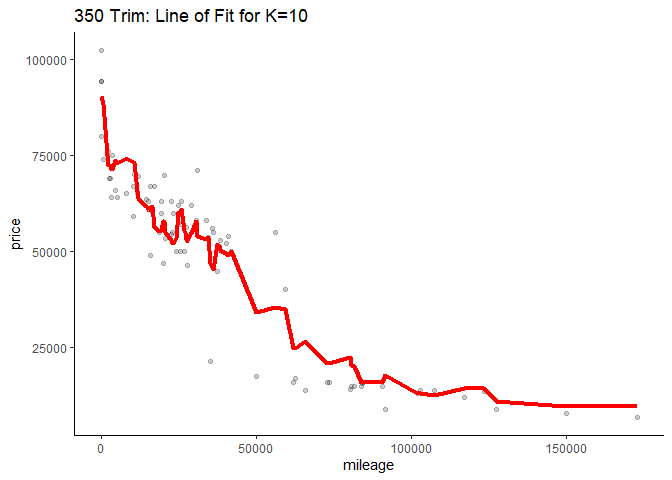
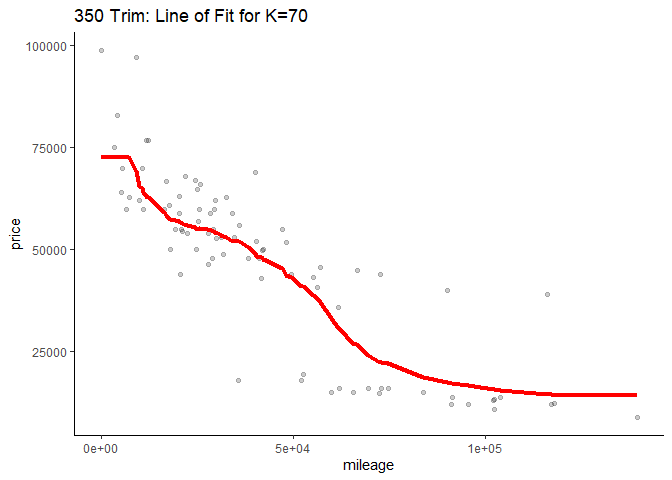
.

diff --git a/Harrison/HW1_P4.md b/Harrison/HW1_P4.md
@@ -2,12 +2,26 @@ Problem 4
 ---------
 
 In this problem, we want to find the optimal value of K in our KNN
-regressions for each trim. In the chart of RMSE versus K for each trim,
-there is a line for the RMSE of a linear benchmark, as well as a
-quadratic benchmark.
+regressions for each trim. In the chart of RMSE versus K for each trim
+there is an average RMSE mapped with one standard error bar. In each
+case, we use the “1SE” rule to determine our optimal K. That is we chose
+the largest K value that was within one standard error of the lowest
+average RMSE observed. Doing this with the 350 trims yields the
+following results.
 
-![](HW1_P4_files/figure-markdown_strict/unnamed-chunk-2-1.png)![](HW1_P4_files/figure-markdown_strict/unnamed-chunk-2-2.png)![](HW1_P4_files/figure-markdown_strict/unnamed-chunk-2-3.png)![](HW1_P4_files/figure-markdown_strict/unnamed-chunk-2-4.png)
+![](HW1_P4_files/figure-markdown_strict/unnamed-chunk-2-1.png)![](HW1_P4_files/figure-markdown_strict/unnamed-chunk-2-2.png)
 
 From the 350 Trim chart of RMSE versus K, we see that the RMSE bottoms
-out at 10, as such the line of fit against the test data is for that K
-value. Similarly we have a minimal RMSE and line of fit for k=5.
+out at 70, as such the line of fit against the test data is for that K
+value. Similarly, we can find an optimal K value for the AMG trim cars.
+
+![](HW1_P4_files/figure-markdown_strict/unnamed-chunk-3-1.png)![](HW1_P4_files/figure-markdown_strict/unnamed-chunk-3-2.png)
+
+We see that the 1SE approach yields an optimal k=40. We observe higher
+optimal K values for the 350 trim as compared to the AMG. This is due to
+the fact that the number of observations for the AMG trim is much lower
+than that of the 350. Thus to earn a lower RMSE, we need a more flexible
+model, inducing a lower optimal K. Having a lower K will mean that the
+values in our neighborhood are closer to the original point, which
+yields a better result for the AMG trim, as the lack of observations
+implies that a large neighborhood could capture far away points.
